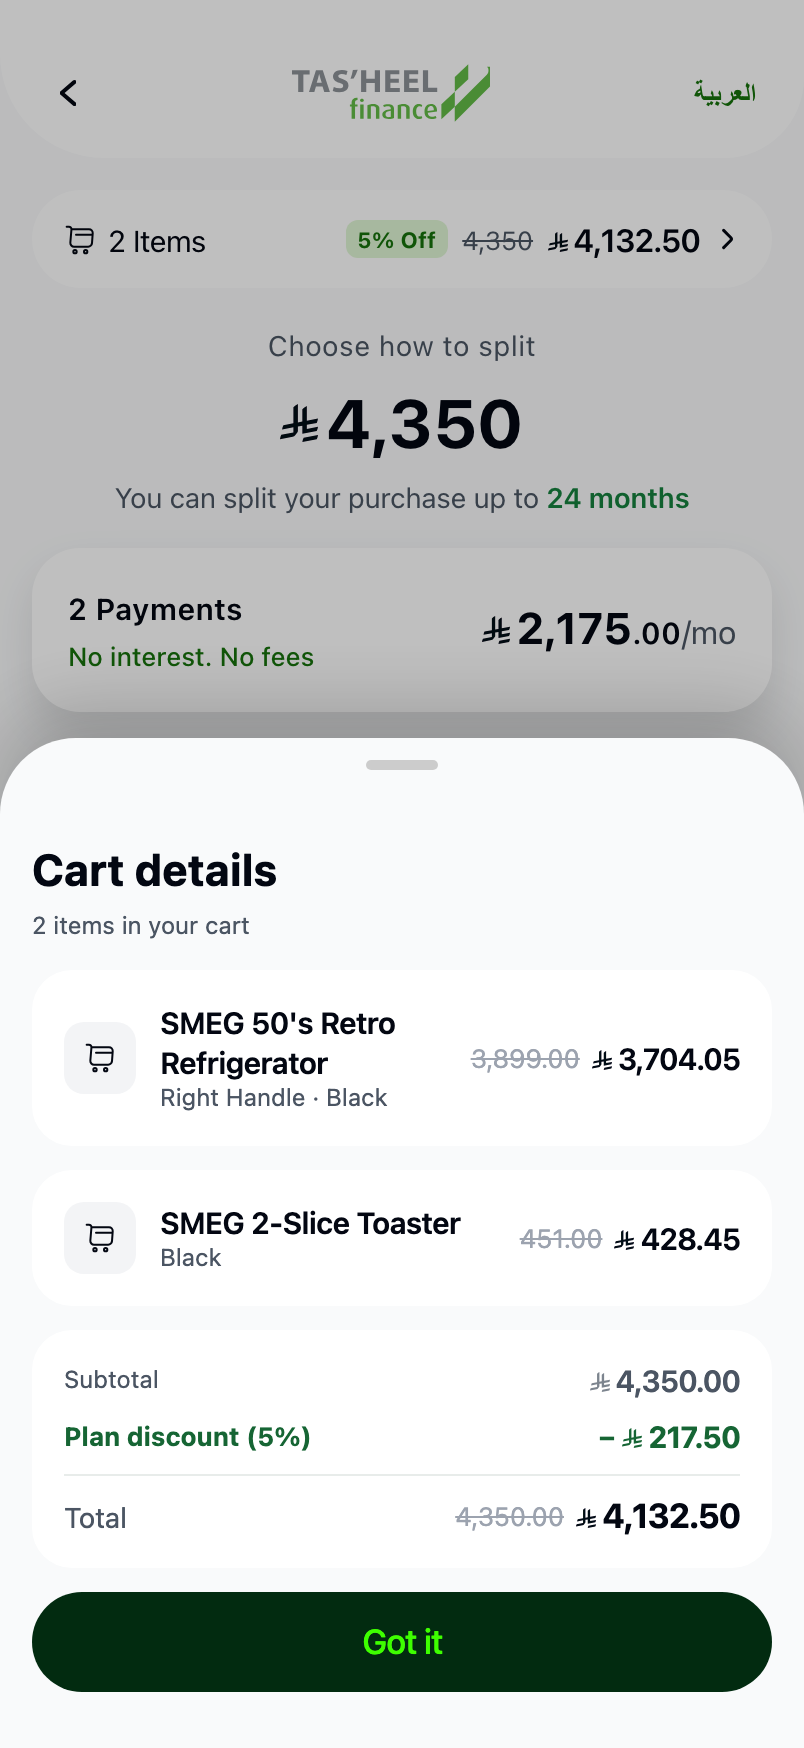
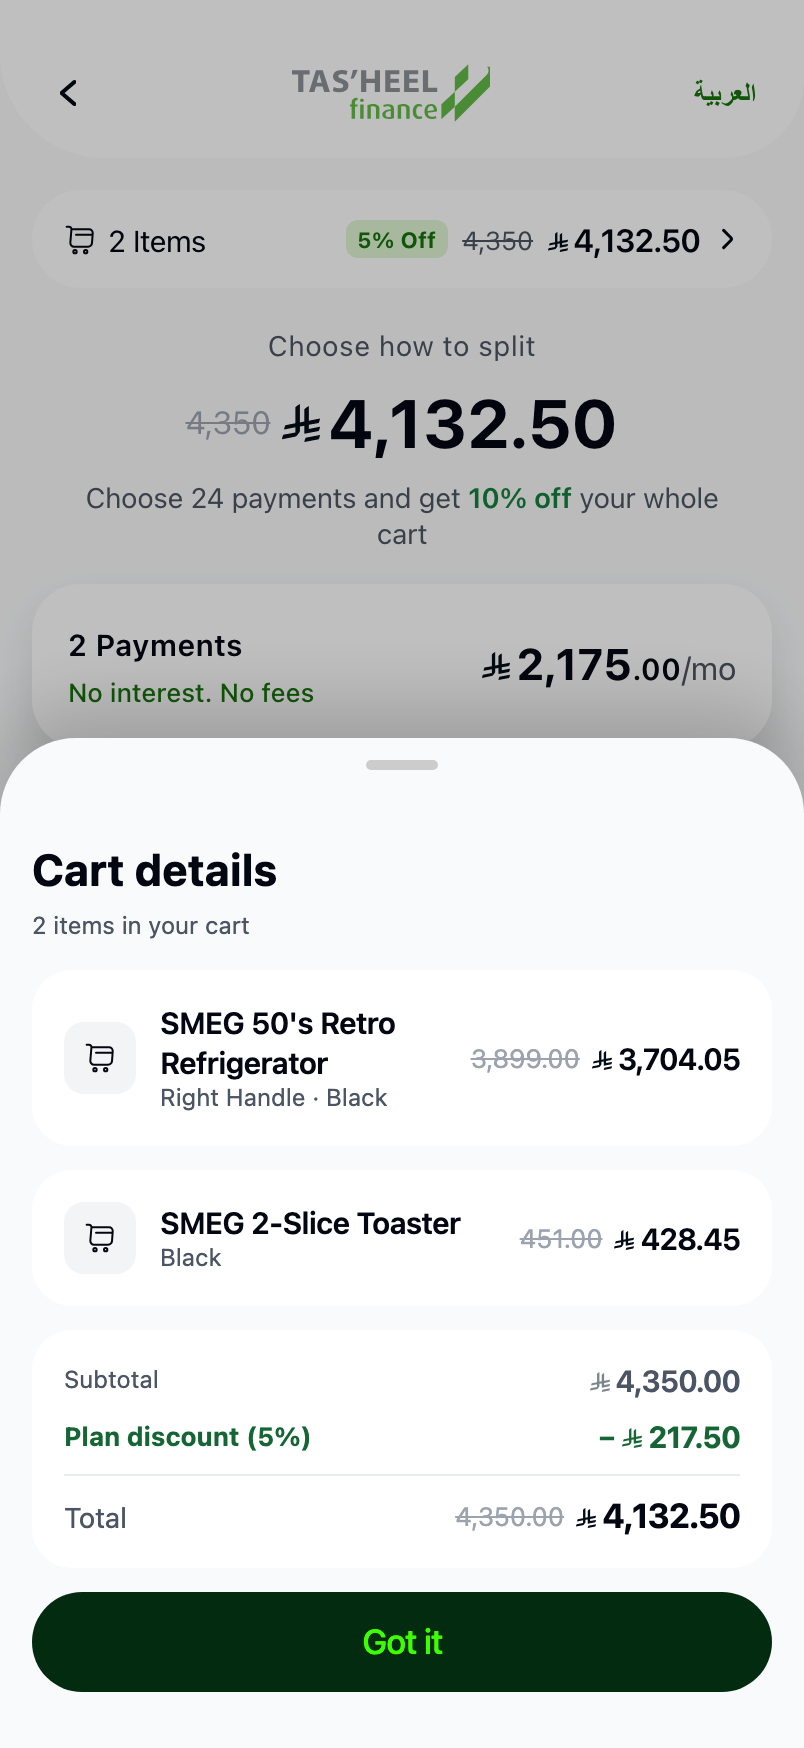
Plans list: upsell subtitle + tap-again to unselect
- Subtitle now sells the headline offer instead of restating the max tenure:
  "Choose 24 payments and get 10% off your whole cart" (tenure and rate
  derived from the model). Stepper copy untouched.
- Tapping the selected row clears the selection: amounts fall back to the
  cart total, Continue disables, the details button hides. The last tenure
  is kept behind the scenes so payment defaults stay sane.

diff --git a/App.tsx b/App.tsx
@@ -1812,9 +1812,8 @@ function WcPlanRow({ months, selected, onPress }: { months: number; selected: bo
  * pre-selected, so Continue stays inert until the shopper commits. Optimised for
  * scanning cost against tenure rather than for stepping through a single number.
  */
-function WcPlanList({ setRoute, months, setMonths }: { setRoute: (r: RouteKey) => void; months: number | null; setMonths: (m: number) => void }) {
+function WcPlanList({ setRoute, months, setMonths }: { setRoute: (r: RouteKey) => void; months: number | null; setMonths: (m: number | null) => void }) {
   const [sheet, setSheet] = useState<null | 'cart' | 'details' | 'schedule'>(null);
-  const maxTenure = WC_TENURES[WC_TENURES.length - 1];
   const chosen = months;
   const chosenSaving = chosen ? wcPlanSaving(chosen) : 0;
   const chosenPayable = Math.round((WC_CART_TOTAL - chosenSaving) * 100) / 100;
@@ -1886,12 +1885,12 @@ function WcPlanList({ setRoute, months, setMonths }: { setRoute: (r: RouteKey) =
                 <Text style={styles.wcPlansTotal}>{wcSaving(chosenPayable)}</Text>
               </View>
               <Text style={styles.wcPlansSub}>
-                You can split your purchase up to <Text style={styles.wcPlansSubStrong}>{maxTenure} months</Text>
+                Choose {WC_BEST_TENURE} payments and get <Text style={styles.wcPlansSubStrong}>{Math.round(wcSavingRate(WC_BEST_TENURE) * 100)}% off</Text> your whole cart
               </Text>
             </View>
             <View style={styles.wcPlansList} accessibilityRole="radiogroup">
               {WC_TENURES.map((value) => (
-                <WcPlanRow key={value} months={value} selected={chosen === value} onPress={() => setMonths(value)} />
+                <WcPlanRow key={value} months={value} selected={chosen === value} onPress={() => setMonths(chosen === value ? null : value)} />
               ))}
             </View>
     </>
@@ -4517,7 +4516,7 @@ export default function App() {
   if (route === 'wcNafath') return <WcNafath setRoute={setRoute} />;
   if (route === 'wcQuickCall') return <WcQuickCall setRoute={setRoute} />;
   if (route === 'wcTenure') return <WcTenure setRoute={setRoute} months={wcMonths} setMonths={setWcMonths} />;
-  if (route === 'wcPlans') return <WcPlanList setRoute={setRoute} months={wcChosen} setMonths={(m) => { setWcChosen(m); setWcMonths(m); }} />;
+  if (route === 'wcPlans') return <WcPlanList setRoute={setRoute} months={wcChosen} setMonths={(m) => { setWcChosen(m); if (m !== null) setWcMonths(m); }} />;
   if (route === 'wcDemo') return <WcDemoHub setRoute={setRoute} />;
   if (route === 'wcPayment') return <WcPayment setRoute={setRoute} months={wcMonths} setMonths={setWcMonths} planRoute={wcPlanRoute} />;
   if (route === 'wcProcessing') return <WcProcessing setRoute={setRoute} />;
